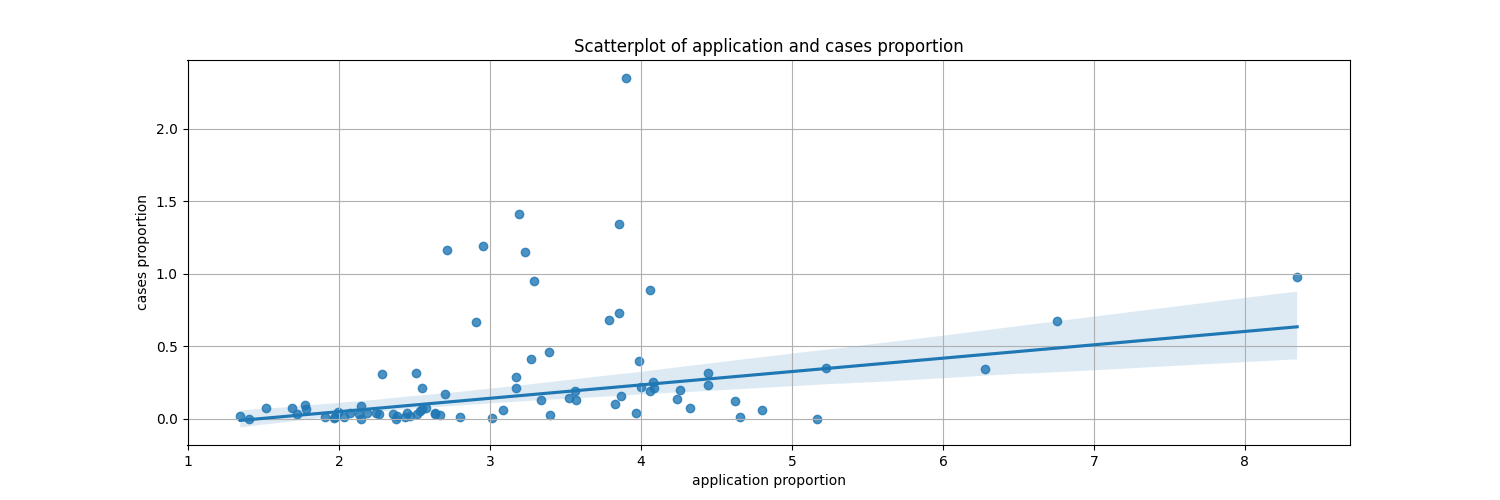
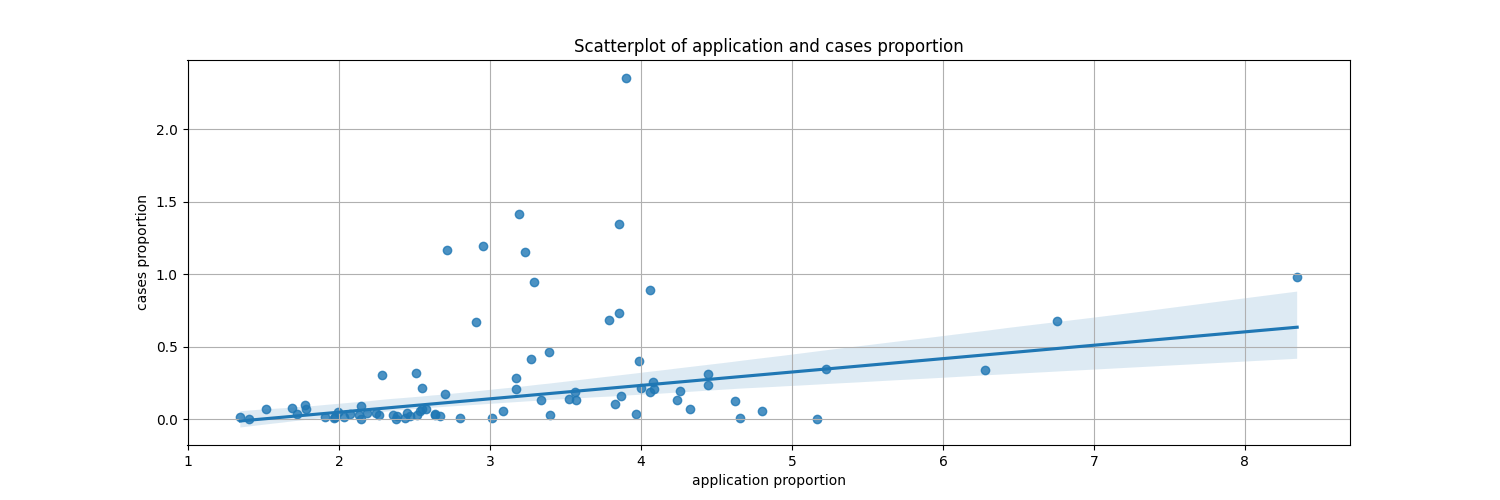
updated assignment2.py

diff --git a/assignment2.py b/assignment2.py
@@ -142,7 +142,7 @@ def extract_postcode():
     
     return postcode_with_name_data
   
-def combination():
+def combination(outlier):
     '''Combining all three dataframes into a singular dataframe for further analysis'''
     #extracting data with functions created above
     covid = extract_covid()
@@ -156,11 +156,12 @@ def combination():
     com1 = pd.merge(postcode, covid, on='postcode')
     combination = pd.merge(com1, jobkeeper, on='postcode')
     
-    #deleting an outlier
-    for index, row in combination.iterrows():
-        if row['postcode'] == 3026:
-            combination = combination.drop([index, index + 1], axis=0)
-            break
+    if outlier == 1:
+        #deleting an outlier
+        for index, row in combination.iterrows():
+            if row['postcode'] == 3026:
+                combination = combination.drop([index, index + 1], axis=0)
+                break
 
     return combination
 
@@ -181,6 +182,7 @@ def sort_by_suburb():
     
     return sorted_by_suburb
 
+
 def scatterplot():
     '''Plotting scatterplot for cases and application proportion'''
     
@@ -189,6 +191,19 @@ def scatterplot():
     sns.regplot(x='application proportion', y='cases proportion', data=sort_by_postal_name, robust=True)
     plt.title('Scatterplot of application and cases proportion')
     plt.savefig("scatterplot_cases_and_application.png")
+    
+    return
+
+def application_vs_cases():
+    '''Plotting scatterplot for cases and application proportion'''
+    combination_with_outlier['cases proportion'] = (combination_with_outlier['cases']/combination_with_outlier['population'])*100
+    combination_with_outlier['application proportion'] = (combination_with_outlier['application count']/combination_with_outlier['population'])*100
+    combination_with_outlier.replace([np.nan, np.inf, -np.inf], 0, inplace = True)
+    plt.figure(figsize=(15,5))
+    plt.grid(True)
+    sns.regplot(x='application proportion', y='cases proportion', data=combination_with_outlier, robust=True)
+    plt.title('Scatterplot of application and cases proportion')
+    plt.savefig("scatterplot_cases_and_application_with_outlier.png")
     
     return
 
@@ -256,13 +271,15 @@ def shapefile_plot_application_proportion():
     return 
 
 #Calling for function to start initial data wrangling
-combination = combination()
+combination_with_outlier = combination(0)
+combination = combination(1)
 
 #Calling for function to start data wrangling
 sort_by_postal_code = sort_by_postcode()
 sort_by_postal_name = sort_by_suburb()
 
 #running scatterplots, regression and descriptive statistics
+application_vs_cases()
 scatterplot()
 regression_results(sort_by_postal_name)
 descriptive_statistics()
